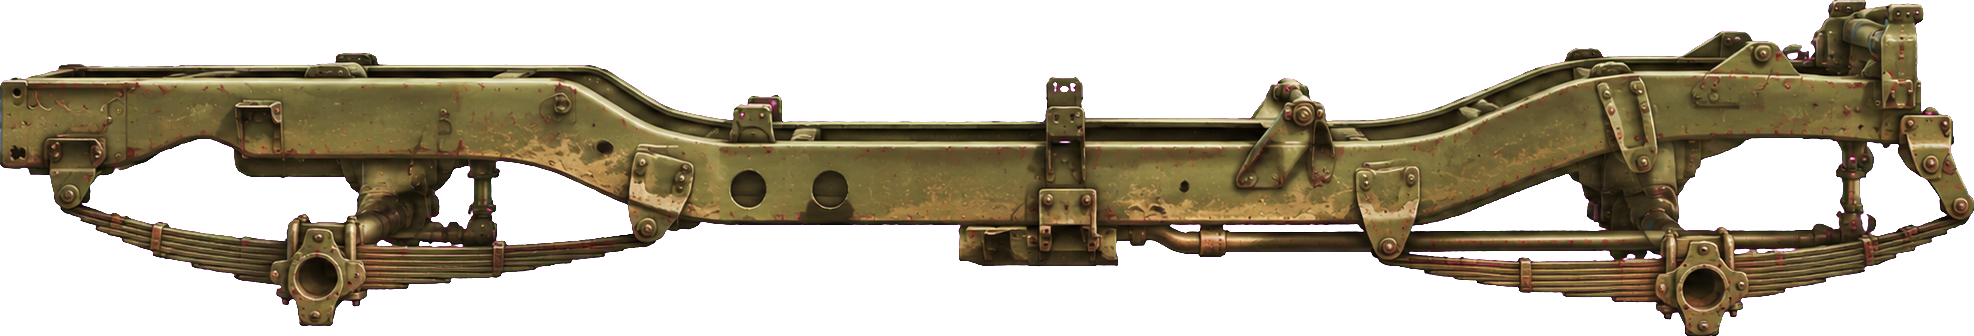
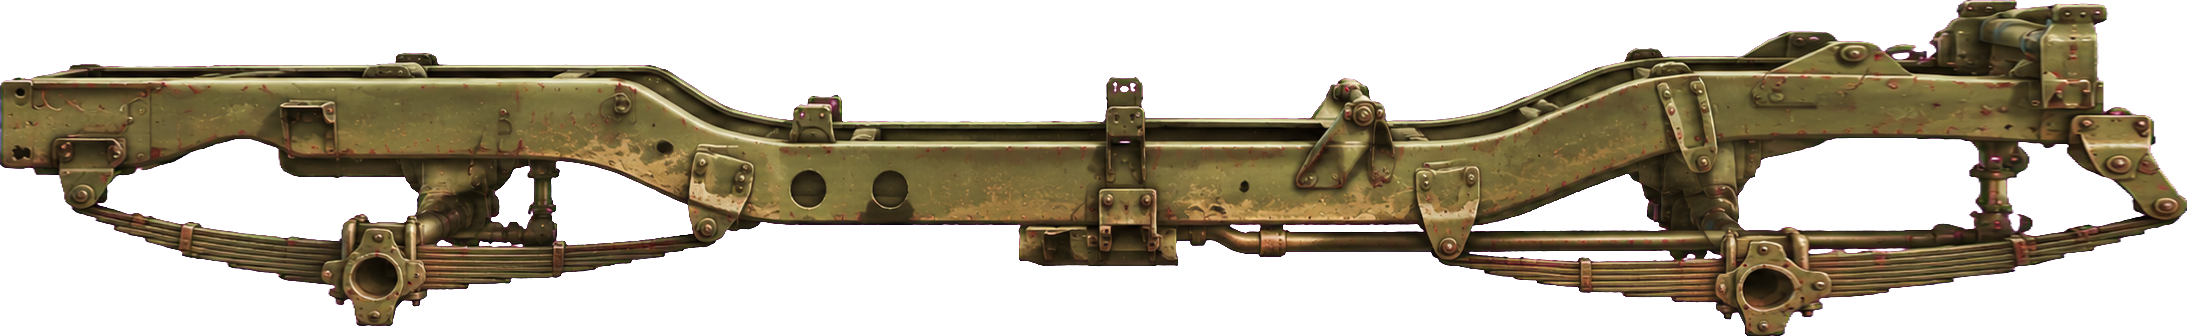
Willys MB : châssis allongé aux extrémités, caisse reposée sur les longerons
Claude-Session: https://claude.ai/code/session_01FR7p1QUb8fBr6W3co8Fome

diff --git a/docs/art/vehicules/willys_mb/CAHIER.md b/docs/art/vehicules/willys_mb/CAHIER.md
@@ -22,7 +22,9 @@ Cotes de prototypage (L 3,36 m, H 1,78 m pare-brise relevé), à affiner sur pla
 Validées le 2026-10-29 : caisse (crochet et pare-chocs inclus), chassis (avec ressorts et
 moyeux d'essieux, calé sur les centres de roues), roue, mitrailleuse (dessinée vers la
 gauche puis retournée ; ressemble à une M2 calibre .50 plutôt qu'à une .30, à trancher
-en gameplay). Les boîtes de `gabarit.json` sont ajustées aux images.
+en gameplay). Les boîtes de `gabarit.json` sont ajustées aux images. Châssis : extrémités étirées
+par Claude (porte-à-faux dessinés trop courts), essieux gardés sur les centres de roues ;
+caisse abaissée sur les longerons.
 
 Échelle source : 64 px par cellule de 25 cm (1 m = 256 px). L'affichage en jeu reste
 zoomable (`echelle_et_grille.csv`).
